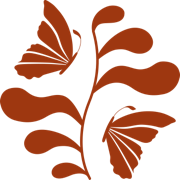
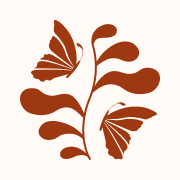
fix: updated images and construct metadata

diff --git a/src/lib/utils/functions/construct-metadata.ts b/src/lib/utils/functions/construct-metadata.ts
@@ -5,6 +5,7 @@ interface ConstructMetadataProps {
   title?: string
   description?: string
   image?: string | null
+  imageSquared?: string | null
   icons?: Metadata['icons']
   noIndex?: boolean
   previousImages?: any
@@ -13,17 +14,18 @@ interface ConstructMetadataProps {
 export function constructMetadata({
   title = `${APP_NAME} - Chic + Multicultural Weddings & Events for Creative Souls`,
   description = `${APP_NAME} is a Palo Alto-based event planning studio, crafting unique, unforgettable weddings and events. We specialize in personalized details and flawless execution, ensuring every celebration reflects your unique style and creates lasting memories.`, // 'A full-service event planning company based in Palo Alto, CA.'
+  // url, // optional canonical url
   image = '/social-card.jpg', // 1866x980 on dub, we use 1200x630
+  // imageAlt = og:image:alt
+  // imageDimensions = { width: 1200, height: 630 },
+  imageSquared = '/social-card_squared.jpg', // 1200x1200
+  // imageSquaredAlt = og:image:alt
+  // imageAltDimensions = { width: 1200, height: 1200 },
   icons = [
     {
       rel: 'icon',
       sizes: 'any',
       url: '/favicon.ico'
-    },
-    {
-      rel: 'apple-touch-icon',
-      sizes: '32x32',
-      url: '/apple-touch-icon.png'
     },
     {
       rel: 'icon',
@@ -36,6 +38,11 @@ export function constructMetadata({
       type: 'image/png',
       sizes: '16x16',
       url: '/favicon-16x16.png'
+    },
+    {
+      rel: 'apple-touch-icon',
+      sizes: '32x32',
+      url: '/apple-touch-icon.png'
     }
   ],
   noIndex = false,
@@ -48,7 +55,13 @@ export function constructMetadata({
     openGraph: {
       title,
       description,
-      ...(image && { images: [{ url: image }, ...previousImages] })
+      ...(image && {
+        images: [
+          { url: image, width: 1200, height: 630 },
+          { url: imageSquared, width: 1200, height: 1200 },
+          ...previousImages
+        ]
+      })
     },
     twitter: {
       title,
@@ -66,16 +79,12 @@ export function constructMetadata({
 //   title: `${APP_NAME} - Chic + Multicultural Weddings & Events for Creative Souls`,
 //   description: `${APP_NAME} is a Palo Alto-based event planning studio, crafting unique, unforgettable weddings and events. We specialize in personalized details and flawless execution, ensuring every celebration reflects your unique style and creates lasting memories.`, // 'A full-service event planning company based in Palo Alto, CA.'
 //   image: 'https://twoperfectevents.com/social-card.jpg', // 1866x980 on dub, we use 1200x630
+//   imageSquared = '/social-card_squared.jpg', // 1200x1200
 //   icons: [
 //     {
 //       rel: 'icon',
 //       sizes: 'any',
 //       url: '/favicon.ico'
-//     },
-//     {
-//       rel: 'apple-touch-icon',
-//       sizes: '32x32',
-//       url: '/apple-touch-icon.png'
 //     },
 //     {
 //       rel: 'icon',
@@ -88,6 +97,11 @@ export function constructMetadata({
 //       type: 'image/png',
 //       sizes: '16x16',
 //       url: '/favicon-16x16.png'
+//     },
+//     {
+//       rel: 'apple-touch-icon',
+//       sizes: '32x32',
+//       url: '/apple-touch-icon.png'
 //     }
 //   ],
 //   noIndex: false
